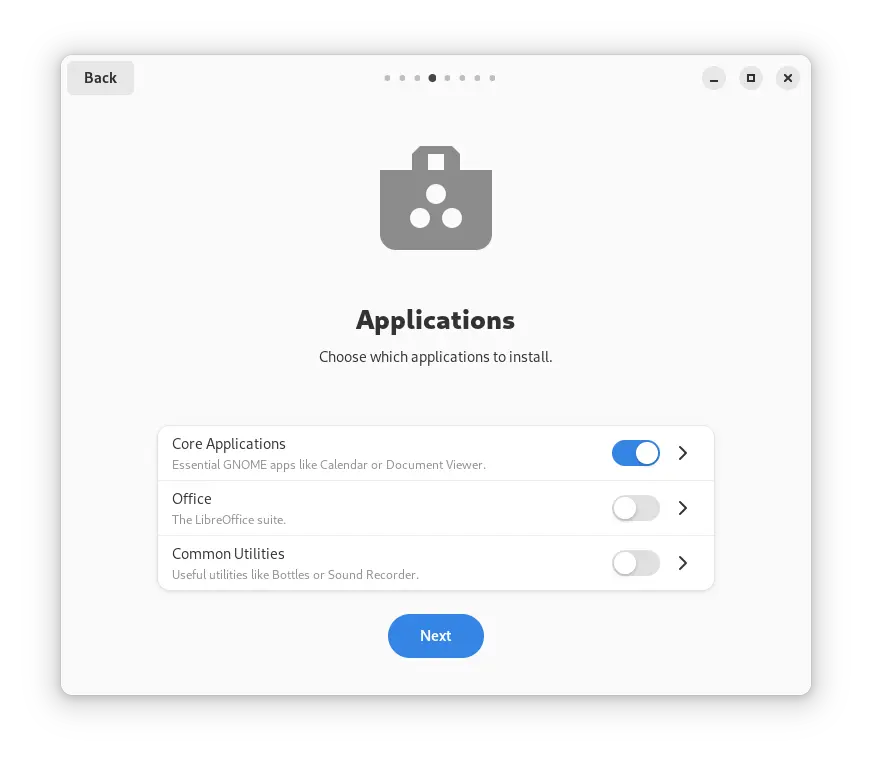
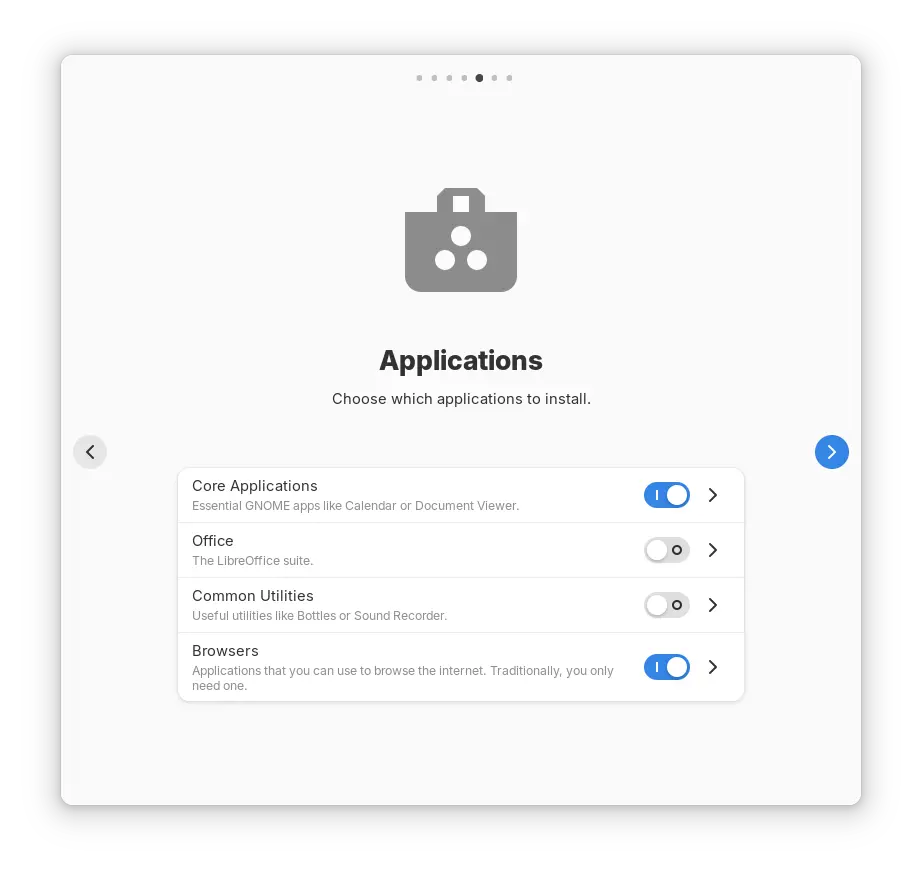
chore: update first setup article (#110)
* chore: update first setup article

* cleanup: add link to the tweaks guide

* cleanup: remove .DS_Store file

diff --git a/articles/en/first-setup.md b/articles/en/first-setup.md
@@ -1,14 +1,14 @@
 ---
 Title: First Setup
 Description: Set up Vanilla OS after installation.
-PublicationDate: 2022-11-18
+PublicationDate: 2024-08-03
 Listed: true
 Authors:
     - kra-mo
     - kbdharun
+    - GabsEdits
 ---
 
-> This guide is for Kinetic (22.10), not Orchid. The documentation for Orchid is still being written.
 
 ## Introduction
 
@@ -21,52 +21,65 @@ After booting into Vanilla OS for the first time, you will be presented with a F
 
 ![Welcome](https://raw.githubusercontent.com/Vanilla-OS/handbook/main/assets/uploads/First_Setup/first-setup-welcome.webp)
 
+### Language
+
+Choose your preferred language. This will be the language used in the system and applications. You can change this later in the Settings app.
+
+![Language](https://raw.githubusercontent.com/Vanilla-OS/handbook/main/assets/uploads/First_Setup/first-setup-languages.webp)
+
+### Keyboard Layout
+
+Choose your preferred keyboard layout. This will be the layout used for typing. You can change this later in the Settings app.
+
+![Keyboard Layout](https://raw.githubusercontent.com/Vanilla-OS/handbook/main/assets/uploads/First_Setup/first-setup-keyboard-layout.webp)
+
+### Date and Time
+
+Choose your preferred time zone. This will be the time zone used for the system clock. You can change this later in the Settings app.
+
+![Date and Time](https://raw.githubusercontent.com/Vanilla-OS/handbook/main/assets/uploads/First_Setup/first-setup-date-time.webp)
+
 ### Color Scheme
 
-Your preferred color scheme. Default meaning that apps decide for themselves or Dark. This can be changed later in the Settings app.
+Your preferred color scheme. Default meaning that apps decide for themselves (usually Light) or Dark. This can be changed later in the Settings app.
 
 ![Color Scheme](https://raw.githubusercontent.com/Vanilla-OS/handbook/main/assets/uploads/First_Setup/first-setup-color-scheme.webp)
 
-### Package Manager
+### Create User
 
-Choose your preferred package managers. These are the ways you will be able to install applications. If unsure, leave it on the default "Flatpak". You can install the required dependencies for each one later if you change your mind.
+Create a user account for yourself. This will be the account you will use to log in to Vanilla OS. You will need to set a name, username and password.
 
-![Package Manager](https://raw.githubusercontent.com/Vanilla-OS/handbook/main/assets/uploads/First_Setup/first-setup-package-managers.webp)
+![Create User](https://raw.githubusercontent.com/Vanilla-OS/handbook/main/assets/uploads/First_Setup/first-setup-create-user.webp)
 
-## Applications
+### Device Name
 
-Choose which applications you need to install in your Vanilla OS Installation. There are various categories for installing applications.
+Choose a name for your device. This will be the name used to identify your device on the network.
 
-![Install Applications](https://raw.githubusercontent.com/Vanilla-OS/handbook/main/assets/uploads/First_Setup/first-setup-applications.webp)
+![Device Name](https://raw.githubusercontent.com/Vanilla-OS/handbook/main/assets/uploads/First_Setup/first-setup-device-name.webp)
 
-![Install Core Applications Flatpak](https://raw.githubusercontent.com/Vanilla-OS/handbook/main/assets/uploads/First_Setup/first-setup-applications-flatpak-core.webp)
+### Applications
 
-### Restricted Codecs
+Choose which applications will be installed on your Vanilla OS Installation. You can choose from the following categories:
 
-This will install popular patented codecs and fonts, that Vanilla OS cannot ship for copyright reasons. **Recommended for most users.**
+- Core Applications (Calculator, Calendar, Clock etc.)
+- Office Applications (LibreOffice, OnlyOffice etc.)
+- Common Utilities (Bottles, Recorder etc.)
+- Browsers (Firefox, Chromium, Chrome etc.)
 
-![Restricted Codecs](https://raw.githubusercontent.com/Vanilla-OS/handbook/main/assets/uploads/First_Setup/first-setup-restricted-codecs.webp)
+![Applications](https://raw.githubusercontent.com/Vanilla-OS/handbook/main/assets/uploads/First_Setup/first-setup-applications.webp)
 
-### Extra Settings
+You can also click the arrow from the right side of each category to specify which applications you want to install.
 
-Extra system settings for automatic crash detection and bug reporting. If unsure, it is recommended to leave it disabled.
+![Select Applications](https://raw.githubusercontent.com/Vanilla-OS/handbook/main/assets/uploads/First_Setup/first-setup-applications-browsers-select.webp)
 
-![Extra Settings](https://raw.githubusercontent.com/Vanilla-OS/handbook/main/assets/uploads/First_Setup/first-setup-extra-settings.webp)
+### Finishing
 
-### NVIDIA® Drivers
+After completing all the steps, you will be prompted to restart your computer. Click the Restart button to restart your computer.
 
-If you have an NVIDIA® graphics card, you will be prompted to install proprietary drivers for your card to improve compatibility and performance. **Recommended for most users.**
-
-![NVIDIA® Drivers](https://raw.githubusercontent.com/Vanilla-OS/handbook/main/assets/uploads/First_Setup/first-setup-nvidia-drivers.webp)
-
-### Open VM Tools
-
-If you are running Vanilla OS inside a virtual machine, you will be prompted to install Open VM Tools to use with VMWare applications. If unsure, it is recommended to skip this step.
-
-![Open VM Tools](https://raw.githubusercontent.com/Vanilla-OS/handbook/main/assets/uploads/First_Setup/first-setup-open-vm-tools.webp)
+![Finishing](https://raw.githubusercontent.com/Vanilla-OS/handbook/main/assets/uploads/First_Setup/first-setup-finish.webp)
 
 ## Other Settings
 
-You can find other options in Settings, Vanilla OS Control Center or tweak your graphical environment in GNOME Tweaks.
+You can find other options in Settings or tweak your graphical environment in GNOME Tweaks, by following the [Installing GNOME Tweaks](https://docs.vanillaos.org/handbook/en/install-gnome-tweaks) guide.
 
 We hope you will have a great time using Vanilla OS!
